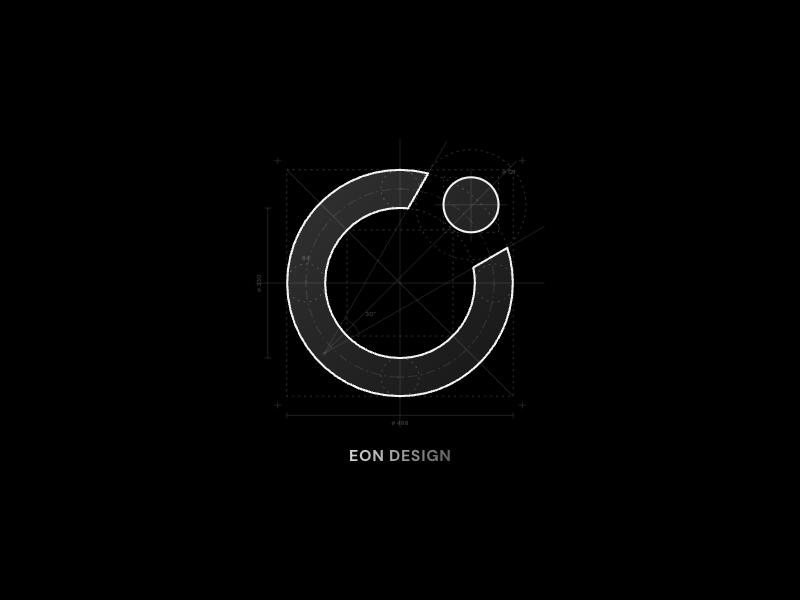
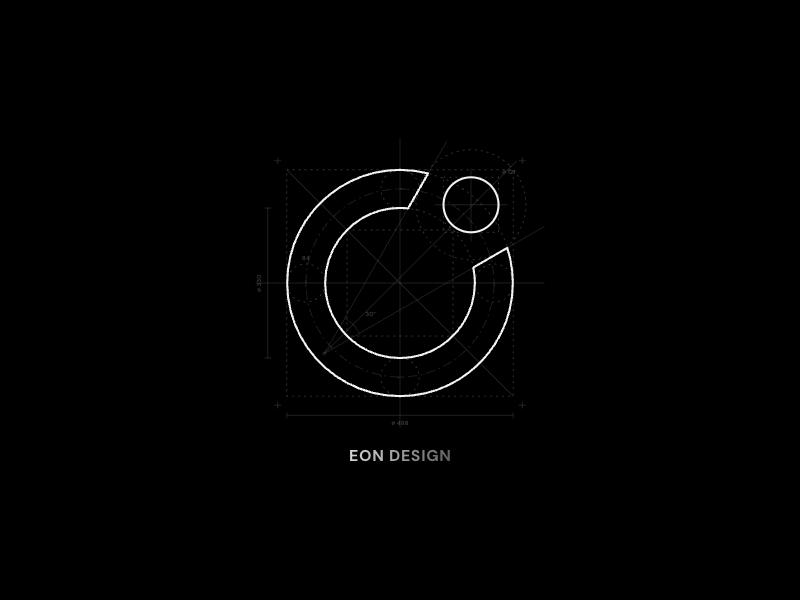
Loader: the mark is an outline only, no fill

Changed region(s): [[0.3438, 0.27, 0.6562, 0.66]]

diff --git a/src/components/LoadingScreen.jsx b/src/components/LoadingScreen.jsx
@@ -87,10 +87,6 @@ export default function LoadingScreen({ children = "Loading…" }) {
     <div className="eon-loading-screen" role="status" aria-live="polite" style={{ "--t0": `${-elapsed}ms` }}>
       <svg className="eon-loading-blueprint" viewBox="-330 -330 660 660" aria-hidden="true">
         <defs>
-          <linearGradient id="eon-bp-chrome" gradientUnits="userSpaceOnUse" x1={-R} y1={-R} x2={R} y2={R}>
-            <stop offset="0" stopColor="#FFFFFF" />
-            <stop offset="1" stopColor="#6F6E73" />
-          </linearGradient>
           {DOTTED.map(([d, start, duration], n) => (
             <mask key={d} id={`eon-bp-m${n}`} maskUnits="userSpaceOnUse" x="-330" y="-330" width="660" height="660">
               <path className="bp-reveal" style={at(start, duration)} pathLength="1" d={d} />
@@ -118,13 +114,8 @@ export default function LoadingScreen({ children = "Loading…" }) {
           <text className="bp-fade" style={at(1040)} x={-M} y={-W - 8} textAnchor="middle">84</text>
         </g>
 
-        {/* The mark fades in over its construction: a faint chrome fill and a
-            strong outline */}
+        {/* The mark fades in over its construction as a strong outline */}
         <g className="bp-mark">
-          <g className="bp-fill">
-            <path d={EON_MARK_PATH} />
-            <circle cx={D[0]} cy={D[1]} r={DR} />
-          </g>
           <path d={EON_MARK_PATH} />
           <circle cx={D[0]} cy={D[1]} r={DR} />
         </g>

diff --git a/src/index.css b/src/index.css
@@ -107,10 +107,8 @@
 .eon-loading-blueprint .bp-hair { stroke: rgba(214, 214, 217, .3); stroke-width: 1.9; }
 .eon-loading-blueprint .bp-fade { animation: eon-bp-fade 500ms var(--ease-out) calc(var(--d, 0ms) + var(--t0, 0ms)) backwards; }
 .eon-loading-blueprint text { fill: rgba(214, 214, 217, .6); font-size: 13px; font-weight: 500; letter-spacing: .04em; }
-/* The mark fades in once the construction is up: a strong outline over a
-   faint chrome fill. */
+/* The mark fades in once the construction is up, as a strong outline. */
 .eon-loading-blueprint .bp-mark { stroke: #F2F2F3; stroke-width: 4.6; stroke-linejoin: round; animation: eon-bp-fade-only 600ms ease-out calc(1200ms + var(--t0, 0ms)) backwards; }
-.eon-loading-blueprint .bp-fill { fill: url(#eon-bp-chrome); stroke: none; opacity: .2; }
 @keyframes eon-bp-draw { from { stroke-dashoffset: 1; } to { stroke-dashoffset: 0; } }
 @keyframes eon-bp-fade { from { opacity: 0; transform: translateY(4px); } }
 @keyframes eon-bp-fade-only { from { opacity: 0; } }
